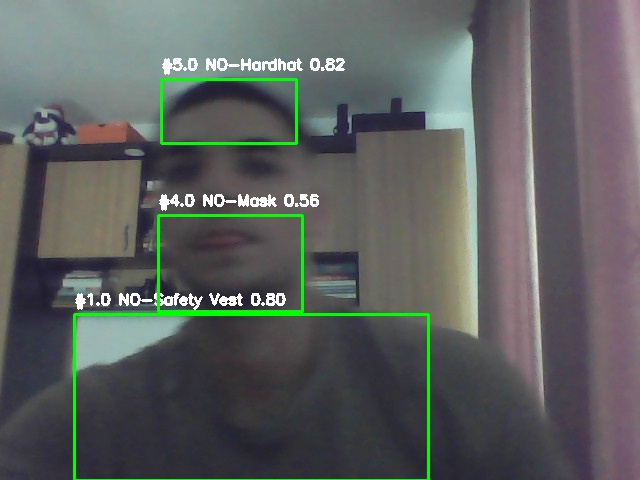
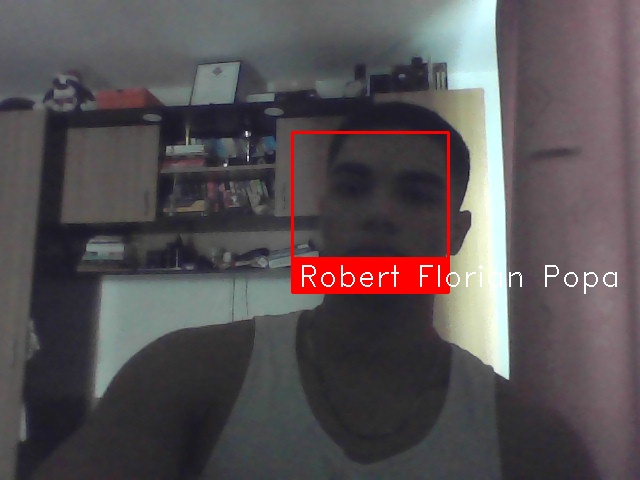
Fixed fetching as security

diff --git a/EmployeeMonitoringFE/src/pages/alerts/AlertsPage.jsx b/EmployeeMonitoringFE/src/pages/alerts/AlertsPage.jsx
@@ -31,14 +31,14 @@ const AlertsPage = () => {
     setSummary(""); // Clear previous summary
   
     const OLLAMA_API_URL = "http://localhost:11434/api/generate"; // Default Ollama API endpoint
-    const MODEL_NAME = "deepseek-r1:1.5b"; // Or your chosen small model
+    const MODEL_NAME = "openhermes:latest"; // Or your chosen small model
   
-    const prompt = `Summarize the provided security alert JSON data. Output a text-only bulleted list covering:
+    const prompt = `Summarize the provided security alert JSON data. Output a text-only bulleted list in a simple text format without MD elements covering:
 - Overall Status: Total, Active, Resolved counts.
 - Key Trends: Common alert types and locations.
 - Priority Items: Mention any high-priority active alerts.
 - Quick Stats: Include relevant numbers.
-Keep it brief and informative.:\n\n${JSON.stringify(filteredAlerts)}}`;
+Keep it brief and informative and made for untechnical persons.:\n\n${JSON.stringify(filteredAlerts)}}`;
   
     try {
       const response = await fetch(OLLAMA_API_URL, {

diff --git a/EmployeeMonitoringFE/src/pages/video-cameras/IndividualVideoCameraPage.jsx b/EmployeeMonitoringFE/src/pages/video-cameras/IndividualVideoCameraPage.jsx
@@ -258,6 +258,7 @@ const IndividualVideoCameraPage = () => {
       }
 
       setFilters(initialFilters);
+      console.log(streamUrl)
       setStreamUrl(buildStreamUrl(initialFilters));
 
       try {
@@ -719,7 +720,7 @@ const IndividualVideoCameraPage = () => {
                   {currentZone && currentZone.points.length > 0 && (
                     <polygon
                       points={polygonPoints(currentZone.points)}
-                      className="fill-yellow-500 fill-opacity-20 stroke-yellow-500 stroke-2"
+                      class="fill-red-500 opacity-40 stroke-red-700 stroke-2"
                     />
                   )}
                 </svg>

diff --git a/EmployeeMonitoringFE/src/pages/HomePage.jsx b/EmployeeMonitoringFE/src/pages/HomePage.jsx
@@ -285,6 +285,12 @@ const HomePage = () => {
           securityResponse = await getAllSecurity();
           setSecurityCount(securityResponse.data.length || 0);
         }
+         else {
+          employeesResponse = { data: [] }; 
+          securityResponse = { data: [] };
+          setEmployeeCount(0);
+          setSecurityCount(0);
+        }
         loadAllAppData(cams, alerts, employeesResponse.data, securityResponse.data);
       } catch (err) {
         console.error("Failed to fetch dashboard data:", err);

diff --git a/EmployeeMonitoringFE/src/context/AppDataContext.jsx b/EmployeeMonitoringFE/src/context/AppDataContext.jsx
@@ -15,9 +15,9 @@ export const AppDataProvider = ({ children }) => {
         setCameras(cameras);
         setAlerts(alerts);
         if (isAdmin()) {
-      setEmployees(employees || []);
-      setSecurity(security || []);
-    }
+          setEmployees(employees || []);
+          setSecurity(security || []);
+        }
     }
 
 

diff --git a/EmployeeMonitoringBE/flaskr/routes/VideoCameraRouter.py b/EmployeeMonitoringBE/flaskr/routes/VideoCameraRouter.py
@@ -212,8 +212,8 @@ def process_camera_frames(camera_name, rtsp_url,
                 print(f"Error loading YOLO model: {e}")
 
 
-        #cap = cv.VideoCapture(rtsp_url)
-        cap = cv.VideoCapture(0)
+        cap = cv.VideoCapture(rtsp_url)
+        #cap = cv.VideoCapture(0)
         cap.set(cv.CAP_PROP_BUFFERSIZE, 2)
         active_cameras[camera_name]["cap"] = cap
         if not cap.isOpened():
